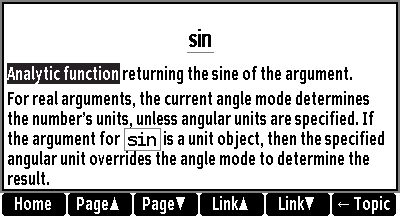
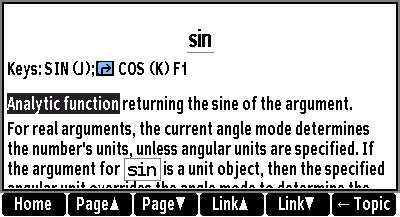
tests: Repair image check
The image check had silently been disabled by commit 7c958e0b, which
caused the current directory to be in a place where there were no
images. This was silent because saving files could fail
silently (which is fixed by the previous commit here).

This commit now ensures that the images are in the current directory
where you launch the test, which restores the image testing
functionality.

This commit also updates various tests that were broken by recent
changes like displaying the keyboard shortcut for a given command.

Changed region(s): [[0.0, 0.4147, 0.96, 0.8848], [0.0, 0.2765, 0.87, 0.3871]]

diff --git a/sim/sim-window.cpp b/sim/sim-window.cpp
@@ -1356,6 +1356,7 @@ void ui_load_keymap(cstring name)
 
 RECORDER(image_check,       16, "Comparison of images in Qt");
 RECORDER(image_check_error, 16, "Error comparing images in Qt");
+extern QDir testDirectory;
 
 bool tests::image_match(cstring file, int x, int y, int w, int h, bool force)
 // ----------------------------------------------------------------------------
@@ -1370,7 +1371,8 @@ bool tests::image_match(cstring file, int x, int y, int w, int h, bool force)
     name += ".png";
 #ifdef CONFIG_COLOR
     name = "color-" + name;
-#endif // CONFIG_COLOR
+#  endif // CONFIG_COLOR
+    name = testDirectory.filePath(name);
     QFileInfo reference(name);
     if (force || !reference.exists() || !data.load(name, "PNG"))
     {

diff --git a/sim/sim-main.cpp b/sim/sim-main.cpp
@@ -51,6 +51,7 @@ bool   install     = false;
 bool   noisy_tests = false;
 bool   no_beep     = false;
 uint   memory_size = MEMORY; // Memory size in kilobytes
+QDir   testDirectory;
 
 size_t recorder_render_object(intptr_t tracing,
                               const char *UNUSED /* format */,
@@ -164,6 +165,7 @@ int main(int argc, char *argv[])
             object::name(object::id(128)),
             uint(object::NUM_IDS),
             HELPFILE_NAME);
+    testDirectory = QDir::current();
 
     record(options,
            "Simulator invoked as %+s with %d arguments", argv[0], argc-1);
